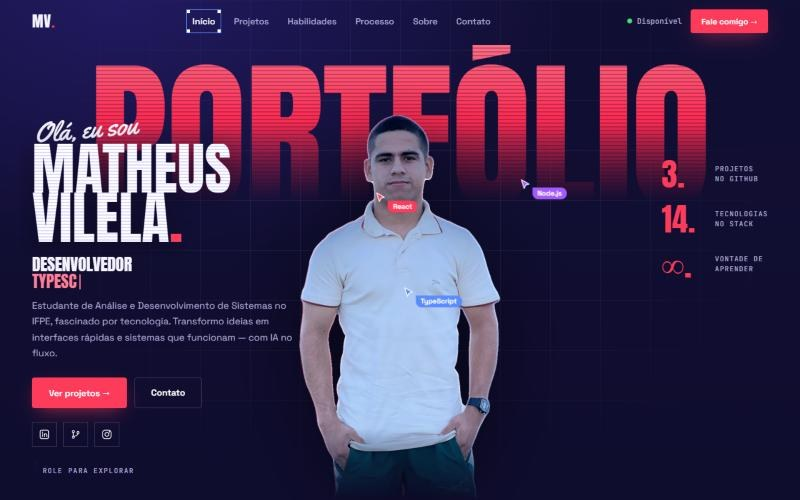
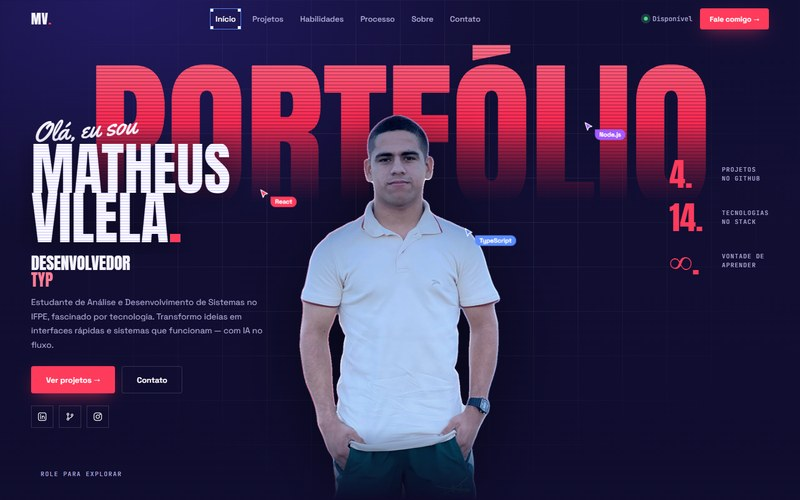
perfil: adiciona o Orla, Vite no stack e prints atualizados

diff --git a/README.md b/README.md
@@ -9,6 +9,7 @@ técnico em informática e fascinado por tecnologia.
 
 [![Portfólio](https://img.shields.io/badge/ver_o_portfólio-ff3b5c?style=for-the-badge&logo=react&logoColor=white)](https://github.com/Matheusvilela1/portfolio)
 [![Kro](https://img.shields.io/badge/kro.vercel.app-0a0920?style=for-the-badge&logo=vercel&logoColor=white)](https://kro.vercel.app/)
+[![Orla](https://img.shields.io/badge/demo_do_Orla-0a0920?style=for-the-badge&logo=githubpages&logoColor=3ddc84)](https://matheusvilela1.github.io/orla-gastos/)
[1 lines of base64/hex data omitted]
 [![E-mail](https://img.shields.io/badge/E--mail-0a0920?style=for-the-badge&logo=gmail&logoColor=ff3b5c)](mailto:1macv9@gmail.com)
 
@@ -23,7 +24,7 @@ const matheus = {
   formacao:  "Técnico em Informática — IFPE",
   cursando:  "Análise e Desenvolvimento de Sistemas — IFPE",
   foco:      ["Desenvolvimento Web", "Front-end", "Back-end"],
-  agora:     "construindo o Kro, um cronograma de estudos que se reorganiza sozinho",
+  projetos:  ["Orla — finanças pessoais", "Kro — cronograma de estudos", "este portfólio"],
   ia:        ["ChatGPT", "Claude"],   // parceiros de pesquisa, revisão e protótipo
   status:    "aberto a oportunidades",
 };
@@ -63,6 +64,7 @@ Programar, para mim, é desvendar quebra-cabeças e construir soluções que faz
     <td><b>Ferramentas</b></td>
     <td>
       <img src="https://img.shields.io/badge/Git-0a0920?style=flat-square&logo=git&logoColor=f05032" alt="Git" />
+      <img src="https://img.shields.io/badge/Vite-0a0920?style=flat-square&logo=vite&logoColor=a259ff" alt="Vite" />
       <img src="https://img.shields.io/badge/MySQL-0a0920?style=flat-square&logo=mysql&logoColor=4479a1" alt="MySQL" />
     </td>
   </tr>
@@ -111,6 +113,18 @@ Meu portfólio é feito em **React + TypeScript**, com intro em wireframe, revel
 <table>
   <tr>
     <td width="50%" valign="top">
+      <a href="https://matheusvilela1.github.io/orla-gastos/"><img src="assets/orla.jpg" alt="Orla, painel de finanças pessoais" /></a>
+      <h3>💰 Orla · finanças pessoais</h3>
+      <p>Painel para controlar o próprio dinheiro: quanto sobra no mês, contas atrasadas, orçamento por categoria, investimentos e metas. Os dados ficam num arquivo no seu computador, e os gráficos são só HTML e CSS.</p>
+      <p>
+        <img src="https://img.shields.io/badge/React-0a0920?style=flat-square&logo=react&logoColor=61dafb" alt="React" />
+        <img src="https://img.shields.io/badge/TypeScript-0a0920?style=flat-square&logo=typescript&logoColor=3178c6" alt="TypeScript" />
+        <img src="https://img.shields.io/badge/Vite-0a0920?style=flat-square&logo=vite&logoColor=a259ff" alt="Vite" />
+        <img src="https://img.shields.io/badge/concluído-3ddc84?style=flat-square" alt="Concluído" />
+      </p>
+      <a href="https://matheusvilela1.github.io/orla-gastos/">Abrir a demonstração</a> · <a href="https://github.com/Matheusvilela1/orla-gastos">Repositório</a>
+    </td>
+    <td width="50%" valign="top">
       <a href="https://kro.vercel.app/"><img src="assets/kro.jpg" alt="Kro, cronograma de estudos" /></a>
       <h3>🚀 Kro · cronograma de estudos</h3>
       <p>Você diz para qual prova estuda e como é a sua rotina. Ele monta a grade da semana, mostra onde você mais erra e reorganiza os estudos sozinho.</p>
@@ -121,8 +135,12 @@ Meu portfólio é feito em **React + TypeScript**, com intro em wireframe, revel
       </p>
       <a href="https://kro.vercel.app/">Abrir o site</a> · <a href="https://github.com/Matheusvilela1/cronograma">Repositório</a>
     </td>
+  </tr>
+  <tr>
     <td width="50%" valign="top">
       <a href="https://github.com/Matheusvilela1/portfolio"><img src="assets/comparador.jpg" alt="Comparador código × resultado do portfólio" /></a>
+    </td>
+    <td width="50%" valign="top">
       <h3>🌐 Portfólio pessoal</h3>
       <p>Visual editorial com animações em wireframe, revelação ao rolar e rastro de cursores, tudo sem biblioteca de animação.</p>
       <p>
@@ -139,7 +157,7 @@ Meu portfólio é feito em **React + TypeScript**, com intro em wireframe, revel
 
 ```diff
 + Formado    Técnico em Informática — IFPE
-+ Cursando   ADS — IFPE Campus Garanhuns
++ Cursando   ADS — IFPE
 + Hoje       Desenvolvimento Web + IA (React, TypeScript, Next.js, Node, PHP, MySQL)
 ! Próximo    procurando um time para crescer e entregar produtos de verdade
 ```
